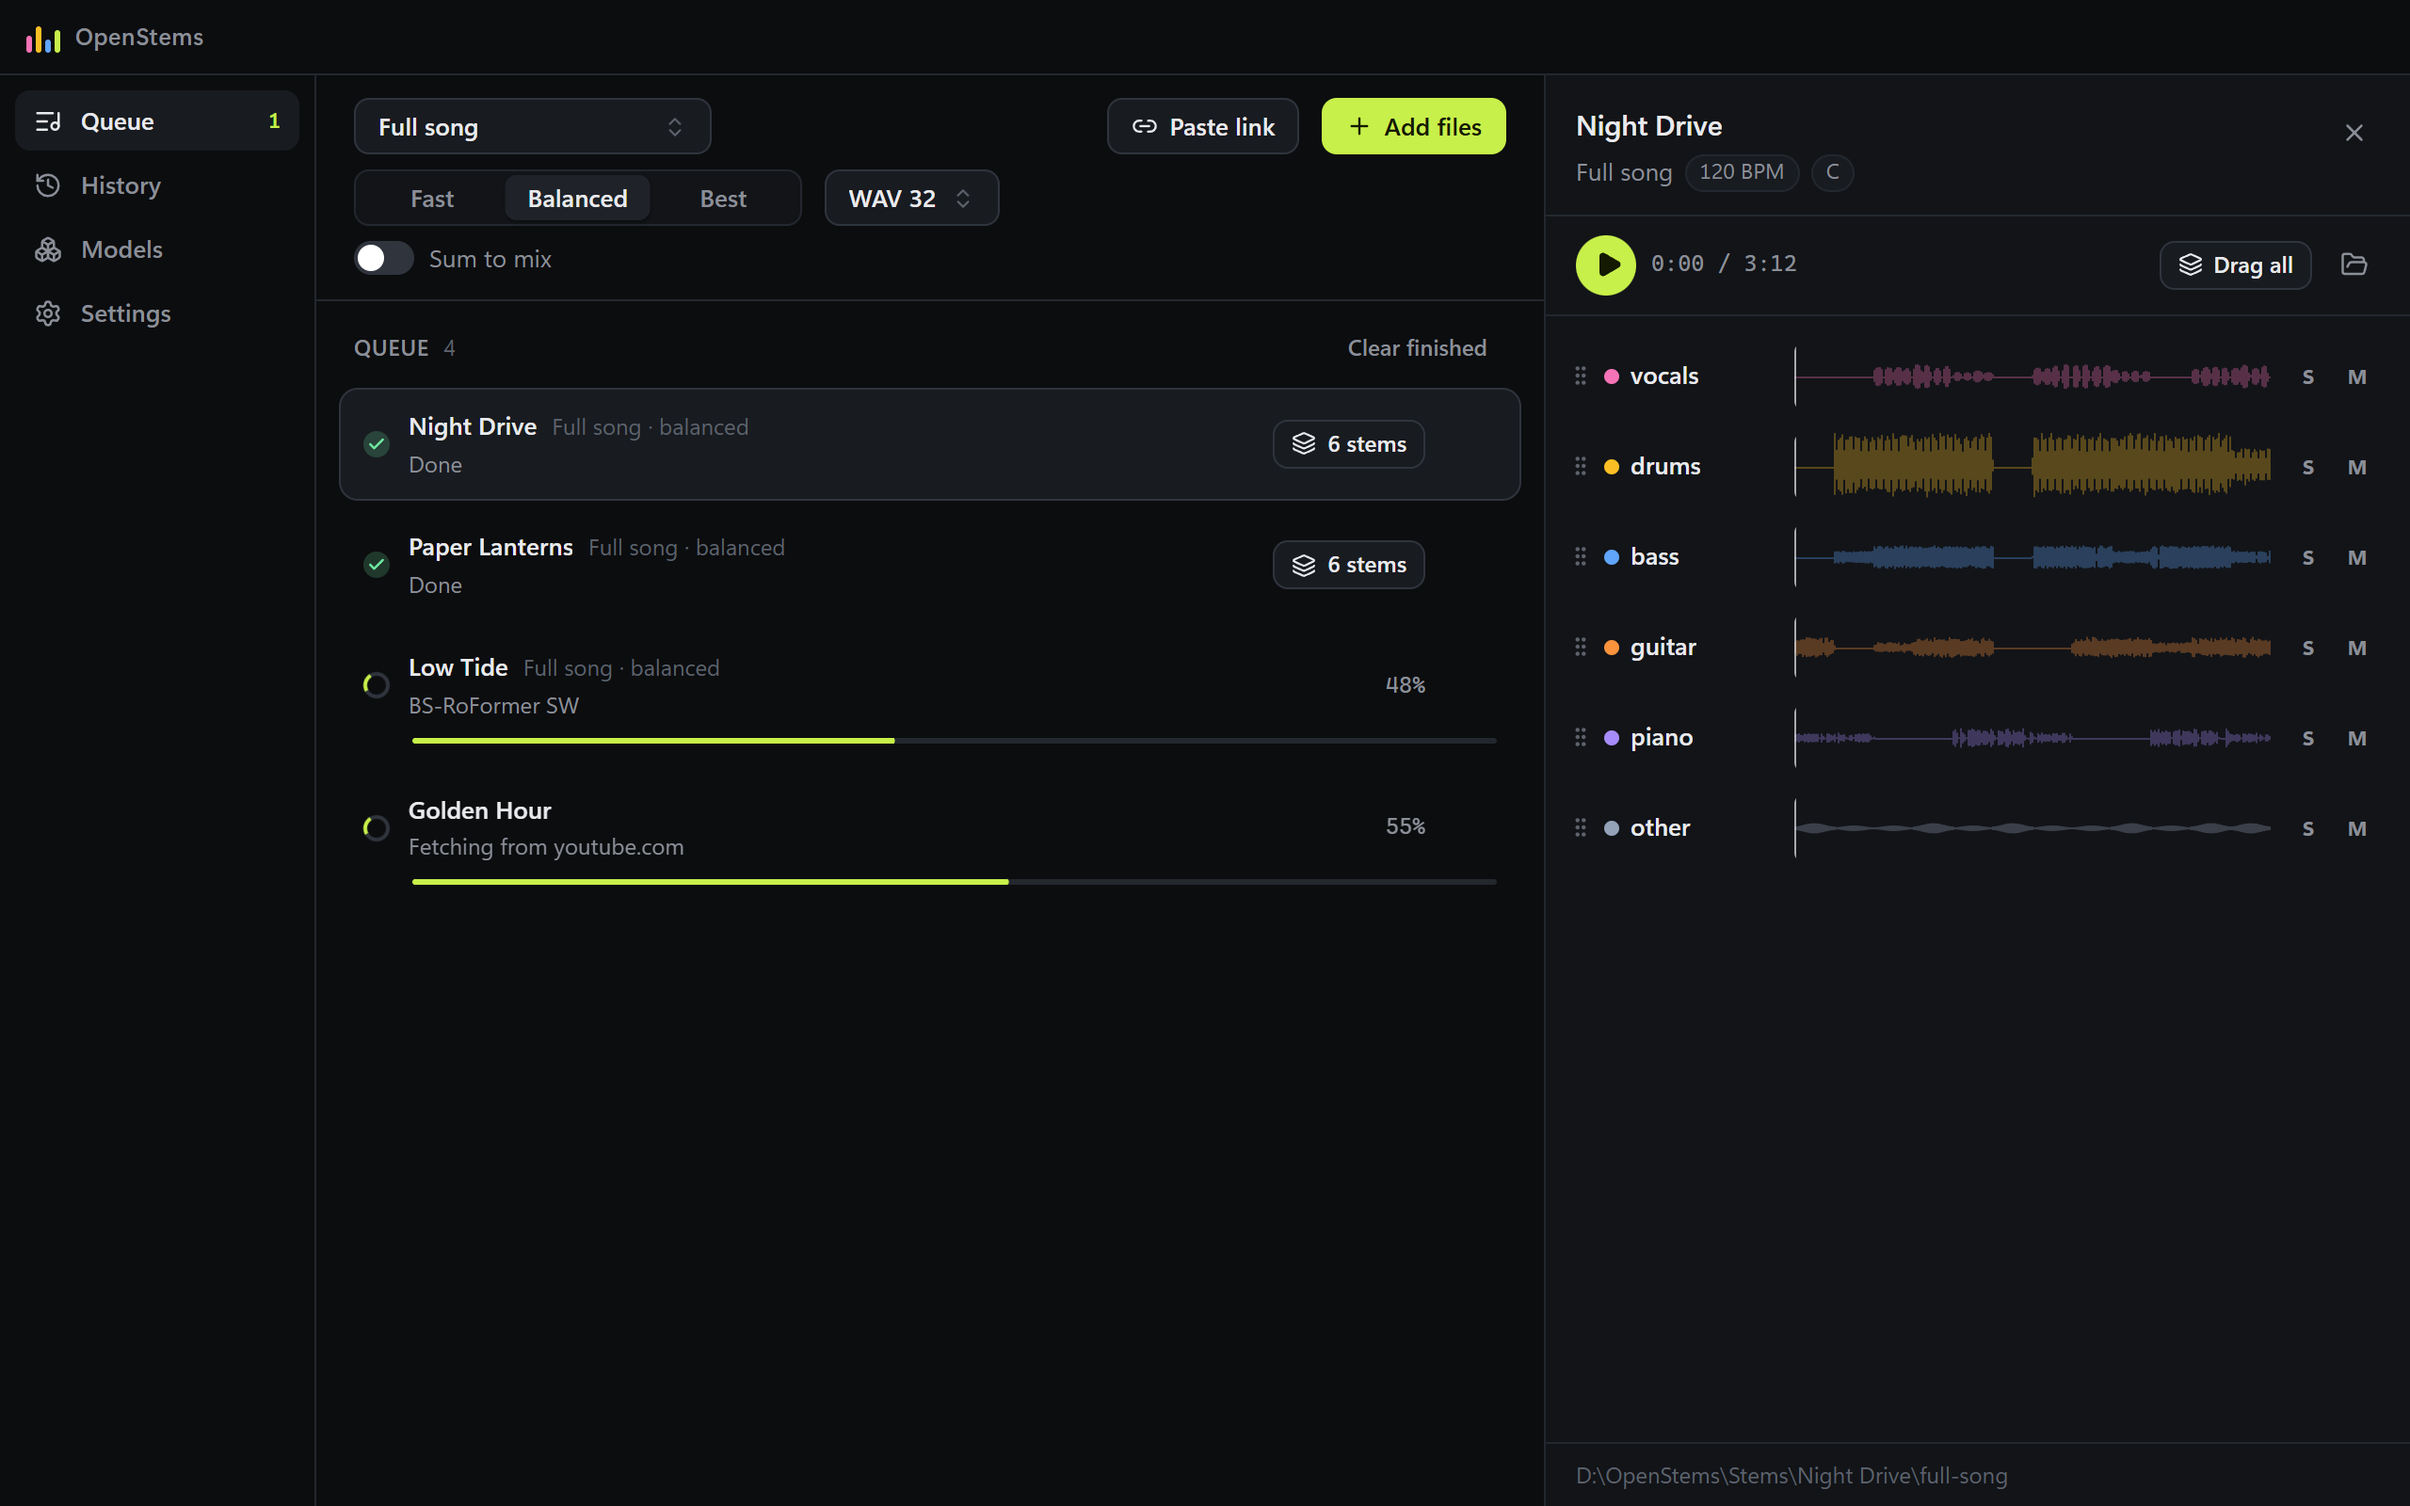
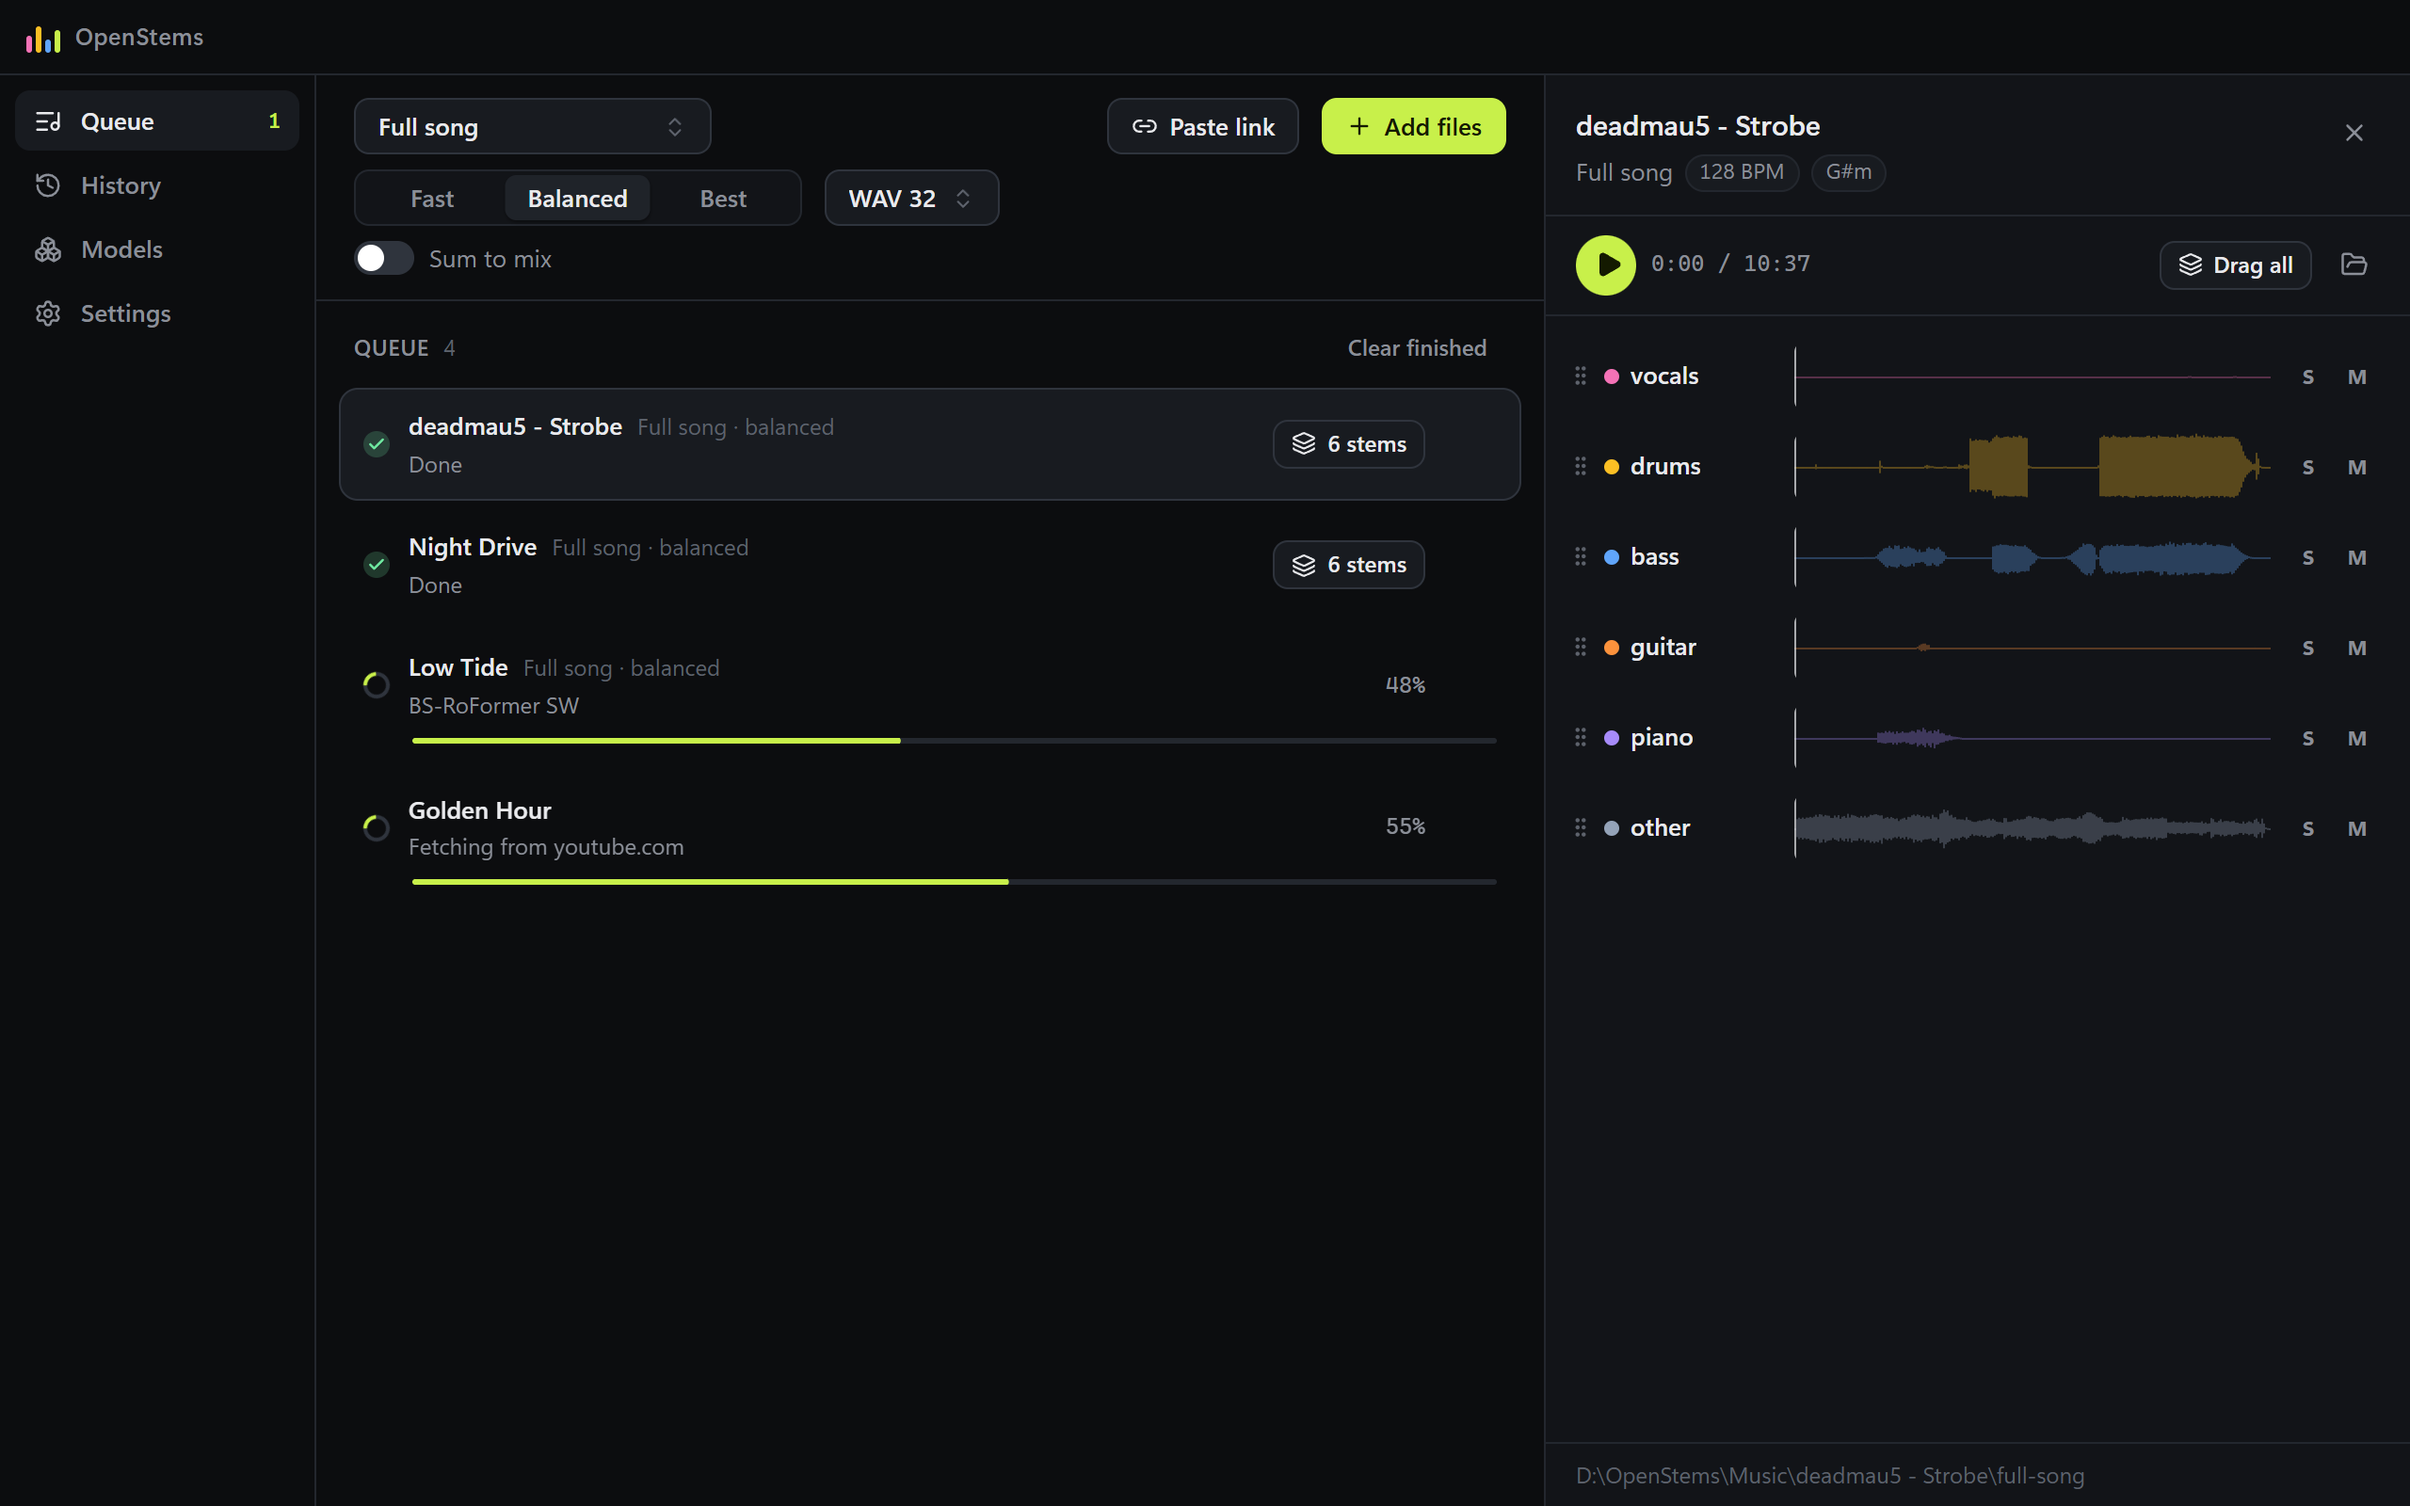
docs: a drum kit picture and a real song in the README
The README's first picture now shows deadmau5's Strobe, separated on the
GPU, at the head of the queue, and a new section shows the same song
through the Drum kit recipe. The other songs in the pictures stay
synthetic.

The picture spec takes README_SONG and README_SONG_STEMS for a real song
separated beforehand; only its waveforms (.peaks) are copied, and no
audio is committed.

diff --git a/app/e2e/readme.spec.ts b/app/e2e/readme.spec.ts
@@ -1,7 +1,7 @@
 import { execFileSync } from 'node:child_process'
-import { mkdirSync, mkdtempSync, writeFileSync } from 'node:fs'
+import { cpSync, mkdirSync, mkdtempSync, writeFileSync } from 'node:fs'
 import { tmpdir } from 'node:os'
-import { join, resolve } from 'node:path'
+import { basename, extname, join, resolve } from 'node:path'
 import { type CDPSession, type Page, test } from '@playwright/test'
 import { devGroupArgs } from '../electron/platform'
 import { clickTray, launch, trayPage } from './helpers'
@@ -12,6 +12,10 @@ import { clickTray, launch, trayPage } from './helpers'
 // The songs are synthetic (scripts/make_demo_song.py): the FakeEngine's stems are scaled
 // copies of the input, so the demo song's own parts are written over them before a picture
 // shows a waveform.
+// README_SONG=<file> with README_SONG_STEMS=<folder> puts a real song first in the queue and
+// adds the drum kit picture. The folder is that song separated beforehand on the real GPU:
+//   openstems separate <file> --recipe full-song --out <folder>   (and again with drum-kit)
+// Only the waveforms (the .peaks files) are taken from it; no audio is copied or committed.
 test.skip(process.env.README_SHOTS !== '1', 'set README_SHOTS=1 to capture the README pictures')
 
 const appDir = resolve(import.meta.dirname, '..')
@@ -48,6 +52,15 @@ test('readme pictures', async () => {
     ...(process.env.README_MODELS ? { OPENSTEMS_MODELS_DIR: process.env.README_MODELS } : {}),
   })
   const popup = await trayPage(app)
+  const real = process.env.README_SONG && process.env.README_SONG_STEMS ? process.env.README_SONG : null
+  const realName = real ? basename(real, extname(real)) : null
+  /** The real separation's waveforms over the FakeEngine's, for one recipe of the real song. */
+  const realPeaks = (recipe: string) => {
+    if (!realName) return
+    const from = join(process.env.README_SONG_STEMS ?? '', realName, recipe, '.peaks')
+    cpSync(from, join(outputDir, realName, recipe, '.peaks'), { recursive: true })
+  }
+  const first = realName ?? SONGS[0]
   // Twice the pixels, whatever the screen, so the pictures stay sharp on a high-density
   // display. Playwright's own screenshot puts the scale back, so the picture is taken here.
   const sessions = new Map<Page, CDPSession>()
@@ -68,14 +81,18 @@ test('readme pictures', async () => {
     await sharp(page, 1280, 800)
 
     // Two finished songs, with the demo song's parts as their stems.
-    await page.getByTestId('file-input').setInputFiles(SONGS.slice(0, 2).map((name) => join(songs, `${name}.mp3`)))
-    await done(page, 'job-row').nth(1).waitFor({ timeout: 120_000 })
-    for (const name of SONGS.slice(0, 2)) demo('stems', join(outputDir, name, 'full-song'), name)
+    const synthetic = real ? SONGS.slice(0, 1) : SONGS.slice(0, 2)
+    await page
+      .getByTestId('file-input')
+      .setInputFiles([...(real ? [real] : []), ...synthetic.map((name) => join(songs, `${name}.mp3`))])
+    await done(page, 'job-row').nth(1).waitFor({ timeout: 180_000 })
+    for (const name of synthetic) demo('stems', join(outputDir, name, 'full-song'), name)
+    realPeaks('full-song')
 
     // The hero: stems on the right, a song being separated and a link being fetched.
     await page.getByTestId('file-input').setInputFiles([join(songs, `${SONGS[2]}.mp3`)])
     await paste(page, 'https://www.youtube.com/slow/Golden-Hour')
-    await page.locator('[data-testid="job-row"]', { hasText: SONGS[0] }).click()
+    await page.locator('[data-testid="job-row"]', { hasText: first }).click()
     const panel = page.getByRole('complementary', { name: 'Stems' })
     await page.getByTestId('stem-row').nth(5).waitFor()
     await page.locator('[data-testid="link-row"][data-state="downloading"]').waitFor()
@@ -127,6 +144,22 @@ test('readme pictures', async () => {
     await popup.mouse.move(200, 560)
     await popup.waitForTimeout(400)
     await shot(popup, 'quick-drop-mix')
+
+    // A drum track: the real song through the Drum kit recipe.
+    if (real && realName) {
+      await page.getByRole('button', { name: 'Queue' }).click()
+      await page.getByRole('combobox', { name: 'Recipe' }).click()
+      await page.getByRole('option', { name: /Drum kit/ }).click()
+      await page.getByTestId('file-input').setInputFiles([real])
+      const kit = page.locator('[data-testid="job-row"][data-state="done"]', { hasText: 'Drum kit' })
+      await kit.waitFor({ timeout: 180_000 })
+      realPeaks('drum-kit')
+      await kit.click()
+      await page.getByTestId('stem-row').nth(6).waitFor()
+      await page.mouse.move(110, 600)
+      await page.waitForTimeout(1200)
+      await shot(page, 'drums')
+    }
   } finally {
     await app.close()
   }

diff --git a/README.md b/README.md
@@ -27,7 +27,7 @@
 </p>
 
 <p align="center">
-  <img src="docs/images/app.png" width="900" alt="The OpenStems window: a queue with two finished songs, one being separated and one being fetched from a link, and the six stems of the selected song as waveforms">
+  <img src="docs/images/app.png" width="900" alt="The OpenStems window: a queue with two finished songs, one being separated and one being fetched from a link, and the six stems of deadmau5's Strobe as waveforms">
 </p>
 
 OpenStems is a desktop app for producers. Drop audio files, folders or a link on it, pick a
@@ -38,7 +38,7 @@ machine.
 It is built for Windows with an NVIDIA card. AMD Radeon and Apple Silicon Macs are previews:
 see [Requirements](#requirements).
 
-<sub>The pictures on this page show a synthetic demo song, not a real recording.</sub>
+<sub>In the pictures, "deadmau5 - Strobe" is a real separation on an RTX 5070 Ti. The other songs are synthetic demo songs.</sub>
 
 ## How it works
 
@@ -88,6 +88,15 @@ are detected and shown with its stems.
 
 Drag one stem, or "Drag all", straight into your DAW or a folder. Reveal in Explorer opens the
 folder.
+
+### A drum track, split into its kit
+
+The Drum kit recipe takes the drums out of the song, then splits them into kick, snare, toms,
+hi-hat, ride and crash, with the whole drum stem beside them.
+
+<p align="center">
+  <img src="docs/images/drums.png" width="900" alt="deadmau5's Strobe through the Drum kit recipe: seven stems, kick, snare, toms, hh, ride, crash and drums, each as a waveform">
+</p>
 
 ### A mix of any stems, as one file
 
@@ -428,9 +437,11 @@ uv run python ../scripts/compare_wirings.py MUSDB   # score both full-song wirin
 uv run python ../scripts/gen_catalog.py --write # rebuild models.toml from the loaders
 ```
 
-**The pictures on this page** are taken from the built app with a synthetic demo song
+**The pictures on this page** are taken from the built app with synthetic demo songs
 (`scripts/make_demo_song.py`): `pnpm build`, then
-`README_SHOTS=1 pnpm e2e -g "readme pictures"` in `app/` rewrites `docs/images/`.
+`README_SHOTS=1 pnpm e2e -g "readme pictures"` in `app/` rewrites `docs/images/`. With
+`README_SONG=<file>` and `README_SONG_STEMS=<folder>` a real song, separated beforehand on the
+GPU, leads the queue and the drum kit picture is taken; only its waveforms are used.
 
 ## License
 

diff --git a/CLAUDE.md b/CLAUDE.md
@@ -51,7 +51,9 @@ App (run from `app/`):
   `docs/images/` at twice the pixels, with a synthetic demo song (`scripts/make_demo_song.py`)
   whose parts are written over the FakeEngine's stems. `README_OUTPUT=<new folder>` and
   `README_MODELS=<folder>` set the folders the pictures show; each run leaves a few GB of
-  demo stems in the output folder
+  demo stems in the output folder. `README_SONG=<file>` with `README_SONG_STEMS=<folder>`
+  (that file separated beforehand on the real GPU with `full-song` and `drum-kit`, into that
+  folder) puts a real song first and adds `drums.png`; only its `.peaks` are copied
 - `--tray` on the app's command line starts it in the tray with no window (the end-to-end
   suite passes it through Playwright's `args`)
 - `REAL_SONG=<file> REAL_MODELS=<folder> pnpm e2e -g "real engine"`: the app on the real GPU
